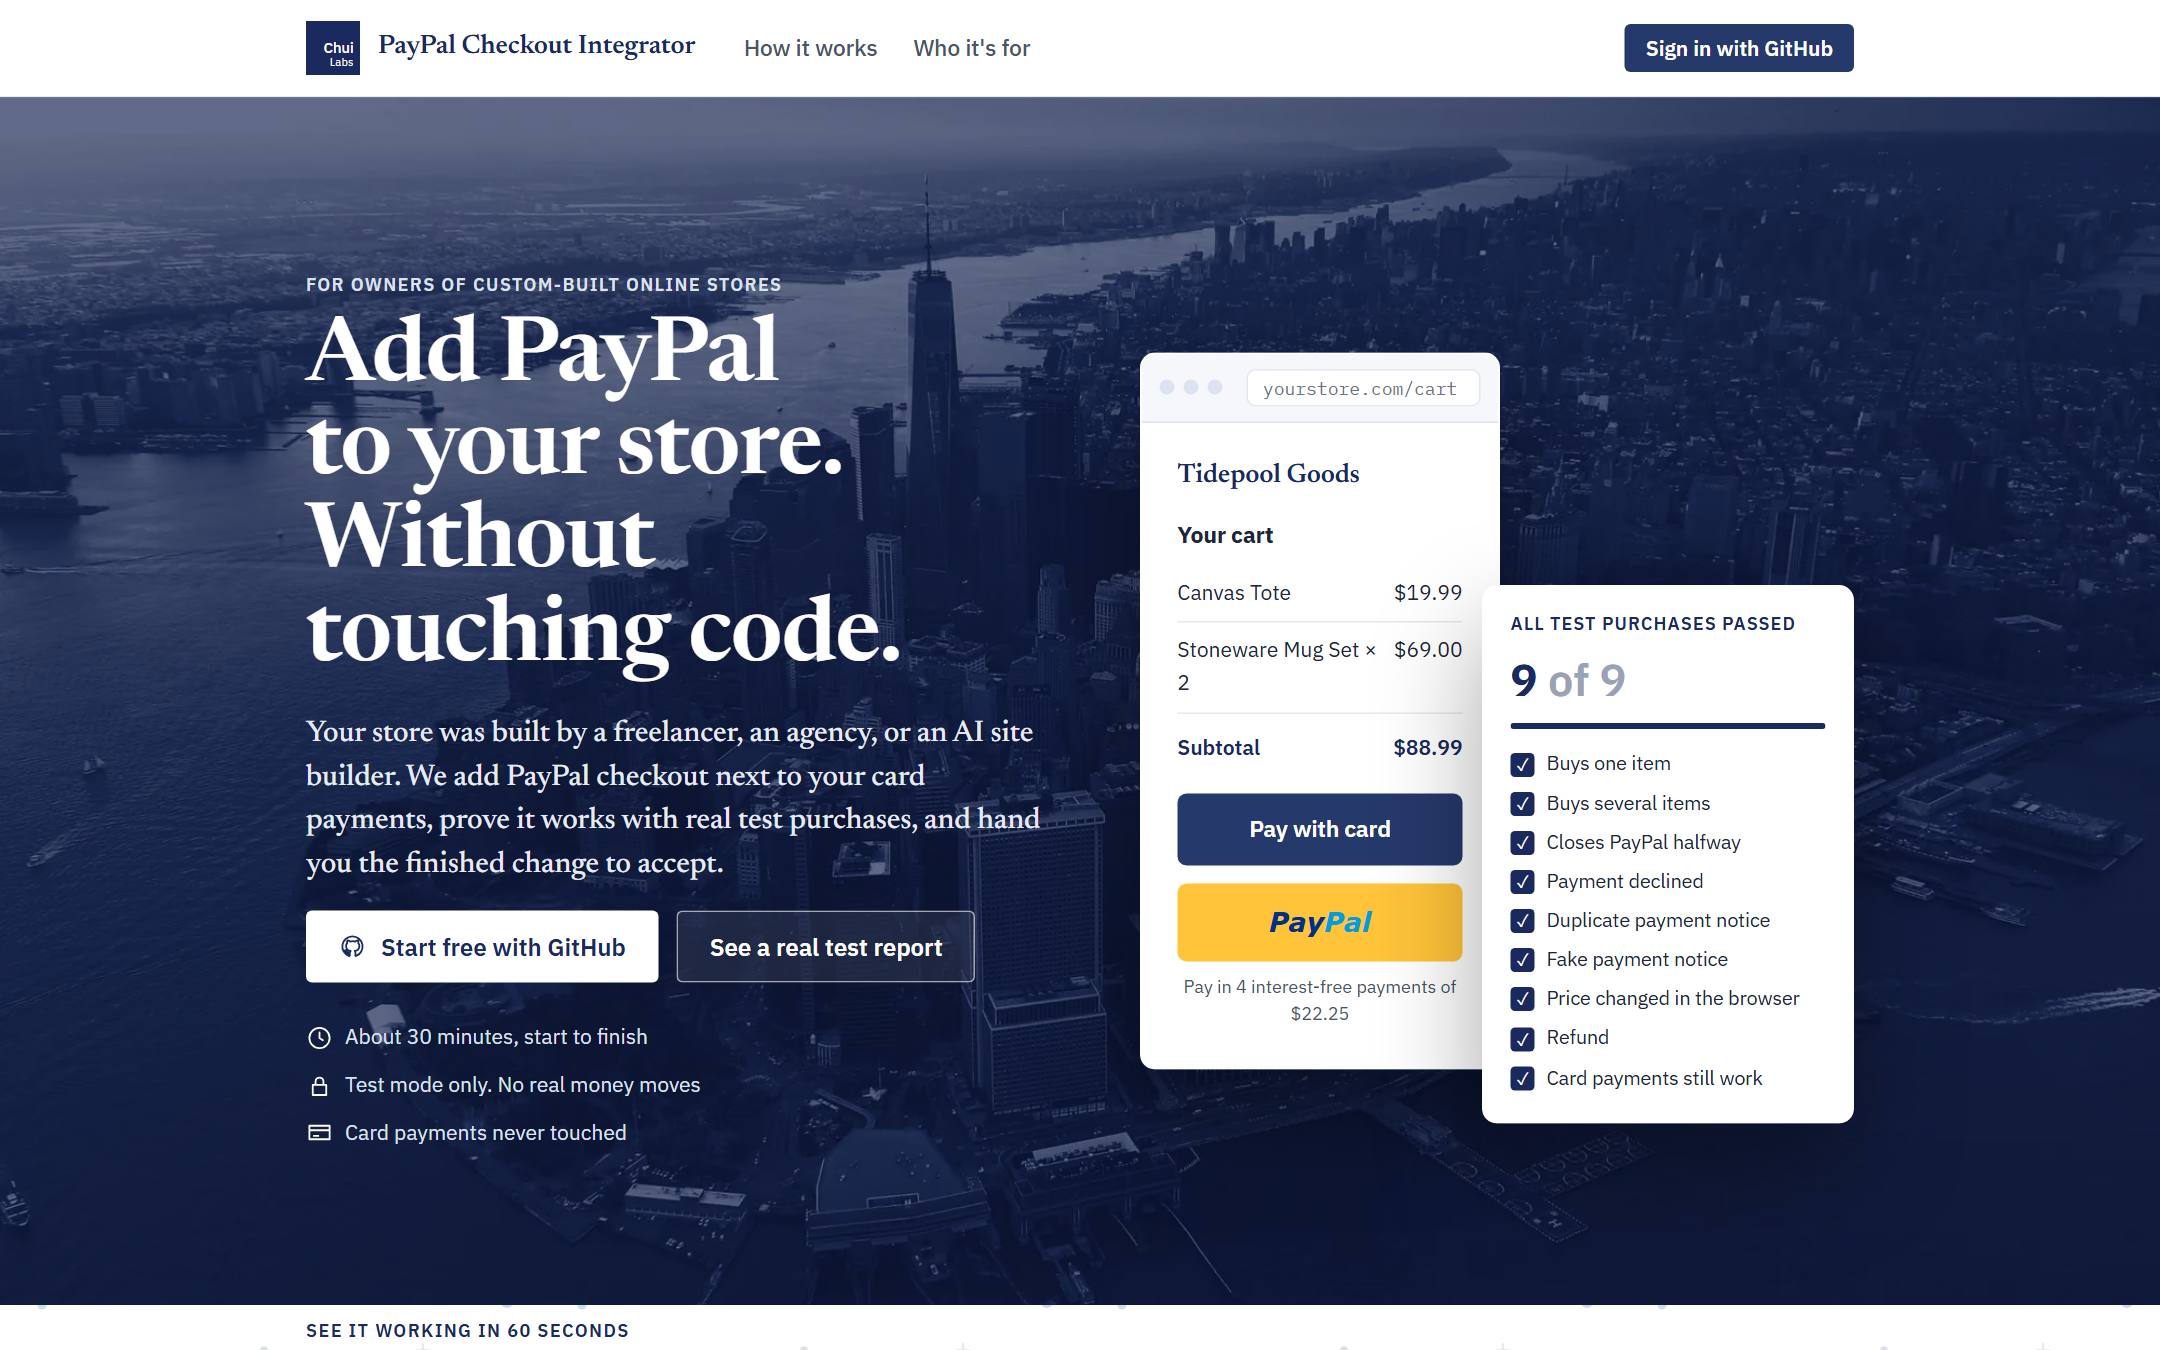
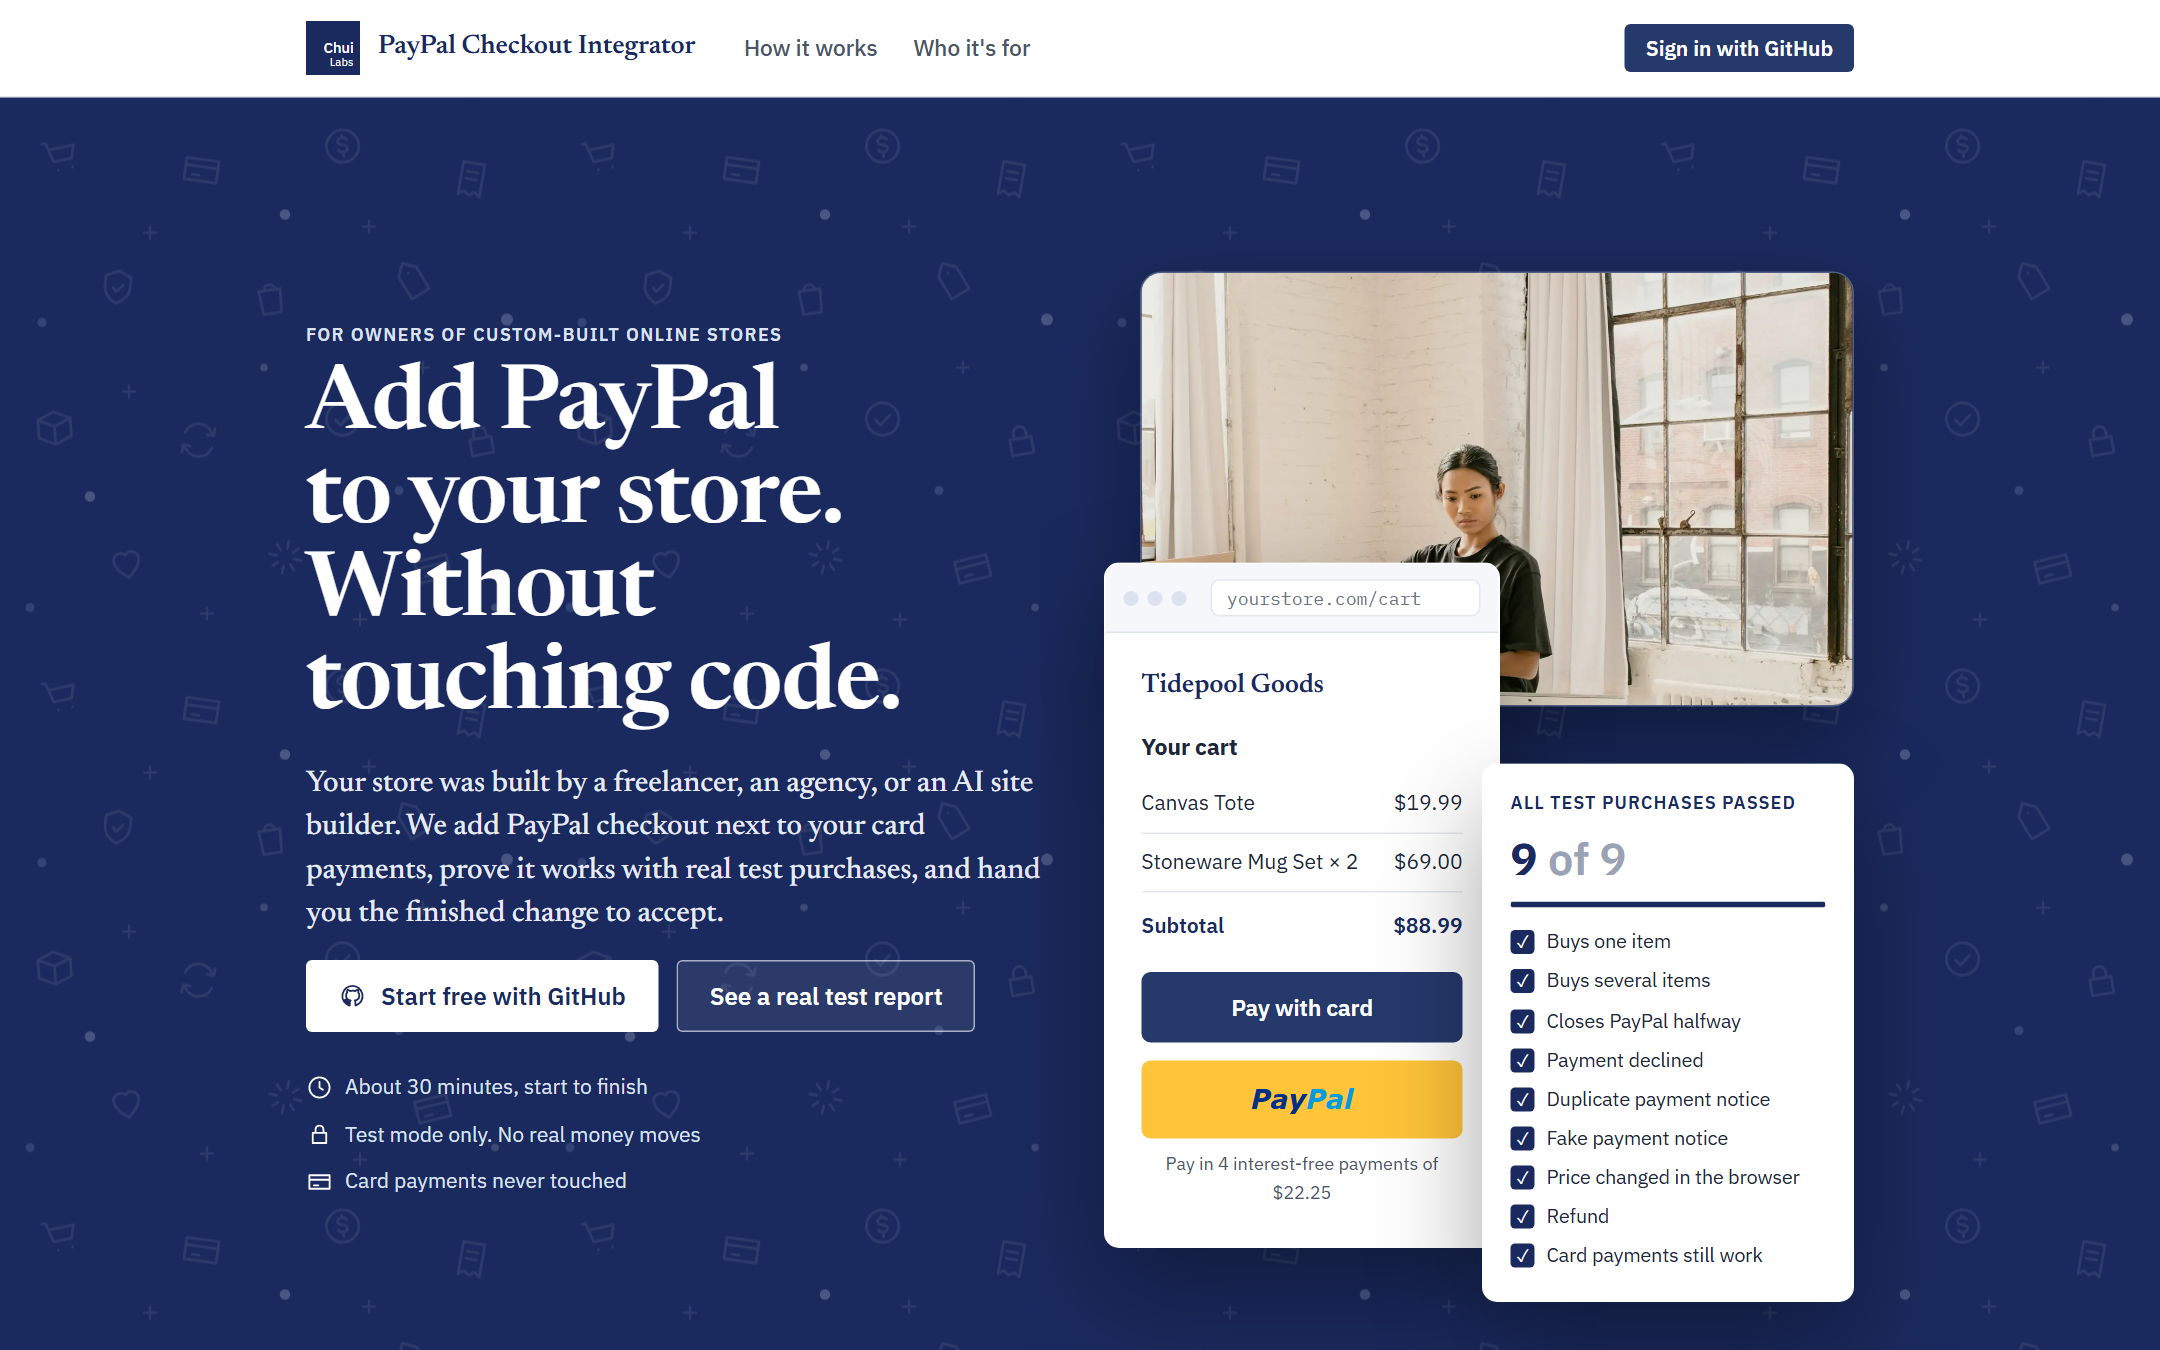
Hero: small online seller photo behind the product preview on a brand-navy doodle band; seller photo in navy behind the closing CTA; drop the NYC image

diff --git a/apps/web/app/app.css b/apps/web/app/app.css
@@ -15,12 +15,16 @@ body:has(.landing) { background-color: #fff; }
 }
 .page .section, .store-grid, .tracker, .steps > li { position: relative; }
 
-/* Landing hero: full-width photo band (Lower Manhattan, recoloured to brand navy; public/bg/nyc-navy.webp) */
+/* Landing hero: full-width brand-navy band with light doodles; the seller photo sits behind the product preview */
 html, body { overflow-x: clip; }
 .lp-hero { position: relative; isolation: isolate; padding: 76px 0 104px; }
 .lp-hero::before, .lp-hero::after { content: ""; position: absolute; z-index: -1; top: -40px; bottom: 0; left: 50%; width: 100vw; transform: translateX(-50%); }
-.lp-hero::before { background: #0b1330 url("/bg/nyc-navy.webp") center 38% / cover no-repeat; }
-.lp-hero::after { background: rgba(11, 19, 48, 0.5); }
+.lp-hero::before { background: var(--ink) url("/bg/doodles-light.svg") 0 0 / 360px 360px repeat; }
+.lp-hero::after { display: none; }
+.lp-hero .demo { grid-template-areas: "photo photo" "browser checks"; }
+.demo-photo { grid-area: photo; display: block; width: 100%; height: 290px; object-fit: cover; object-position: 48% 30%; border-radius: 14px; margin-bottom: -96px; box-shadow: 0 24px 60px rgba(0, 0, 0, 0.35); border: 1px solid rgba(255, 255, 255, 0.25); }
+.lp-hero .browser { grid-area: browser; position: relative; z-index: 1; margin-left: -24px; }
+.lp-hero .checks-card { grid-area: checks; }
 .lp-hero h1 { color: #fff; }
 .lp-hero .kicker { color: var(--navy-1); }
 .lp-hero .lp-sub { color: #e6eaf5; }
@@ -33,10 +37,15 @@ html, body { overflow-x: clip; }
 .lp-hero .fail { color: #ffc2c2; }
 .lp-hero .browser, .lp-hero .checks-card { box-shadow: 0 30px 70px rgba(0, 0, 0, 0.35); border-color: rgba(255, 255, 255, 0.4); }
 .lp-proof-panel { margin-top: 64px; }
-@media (max-width: 900px) { .lp-hero { padding: 48px 0 64px; } }
+@media (max-width: 900px) {
+  .lp-hero { padding: 48px 0 64px; }
+  .lp-hero .demo { grid-template-areas: "photo" "browser" "checks"; }
+  .demo-photo { height: 270px; margin-bottom: -44px; object-position: 52% 22%; }
+  .lp-hero .browser { margin: 0 12px; }
+}
 
-/* Closing call to action over the same photo */
-.lp-cta { position: relative; isolation: isolate; overflow: hidden; background: #0b1330 url("/bg/nyc-navy.webp") center 62% / cover no-repeat; }
+/* Closing call to action over the seller photo, recoloured to brand navy */
+.lp-cta { position: relative; isolation: isolate; overflow: hidden; background: #0b1330 url("/bg/seller-navy.webp") center 40% / cover no-repeat; }
 .lp-cta::before { content: ""; position: absolute; inset: 0; z-index: -1; background: rgba(27, 42, 94, 0.62); }
 .lp-cta-small a { color: var(--navy-1); }
 .ring::before { content: ""; position: absolute; inset: 8px; border-radius: 50%; background: #fff; }

diff --git a/apps/web/components/Landing.tsx b/apps/web/components/Landing.tsx
@@ -244,8 +244,8 @@ export function Landing({ reportUrl, videoUrl, prUrl, caughtReportUrl, caughtPrU
           <Icon name="github" size={18} /> Start free with GitHub
         </a>
         <p className="lp-cta-small">
-          Built with PayPal&apos;s official SDKs, APIMatic, and Claude. A Chui Labs product. Lower Manhattan photo via{" "}
-          <a href="https://unsplash.com/photos/aerial-photography-of-buildings-near-sea-Ab-W3gen18Q">Unsplash</a>.
+          Built with PayPal&apos;s official SDKs, APIMatic, and Claude. A Chui Labs product. Photo via{" "}
+          <a href="https://unsplash.com/photos/a-woman-standing-next-to-a-cardboard-box-on-top-of-a-table-V5XaBkW6PO8">Unsplash</a>.
         </p>
       </section>
     </div>

diff --git a/apps/web/components/landing/HeroDemo.tsx b/apps/web/components/landing/HeroDemo.tsx
@@ -37,6 +37,9 @@ export function HeroDemo() {
 
   return (
     <div className="demo" aria-label="Preview: PayPal is added to a store's cart and tested with nine test purchases">
+      {/* Photo by Unsplash (free under the Unsplash License): a small online seller packing an order. */}
+      {/* eslint-disable-next-line @next/next/no-img-element */}
+      <img className="demo-photo" src="/bg/seller.webp" alt="A small online store owner packing an order next to her laptop" width={1400} height={885} />
       <div className="browser">
         <div className="browser-bar">
           <span />
